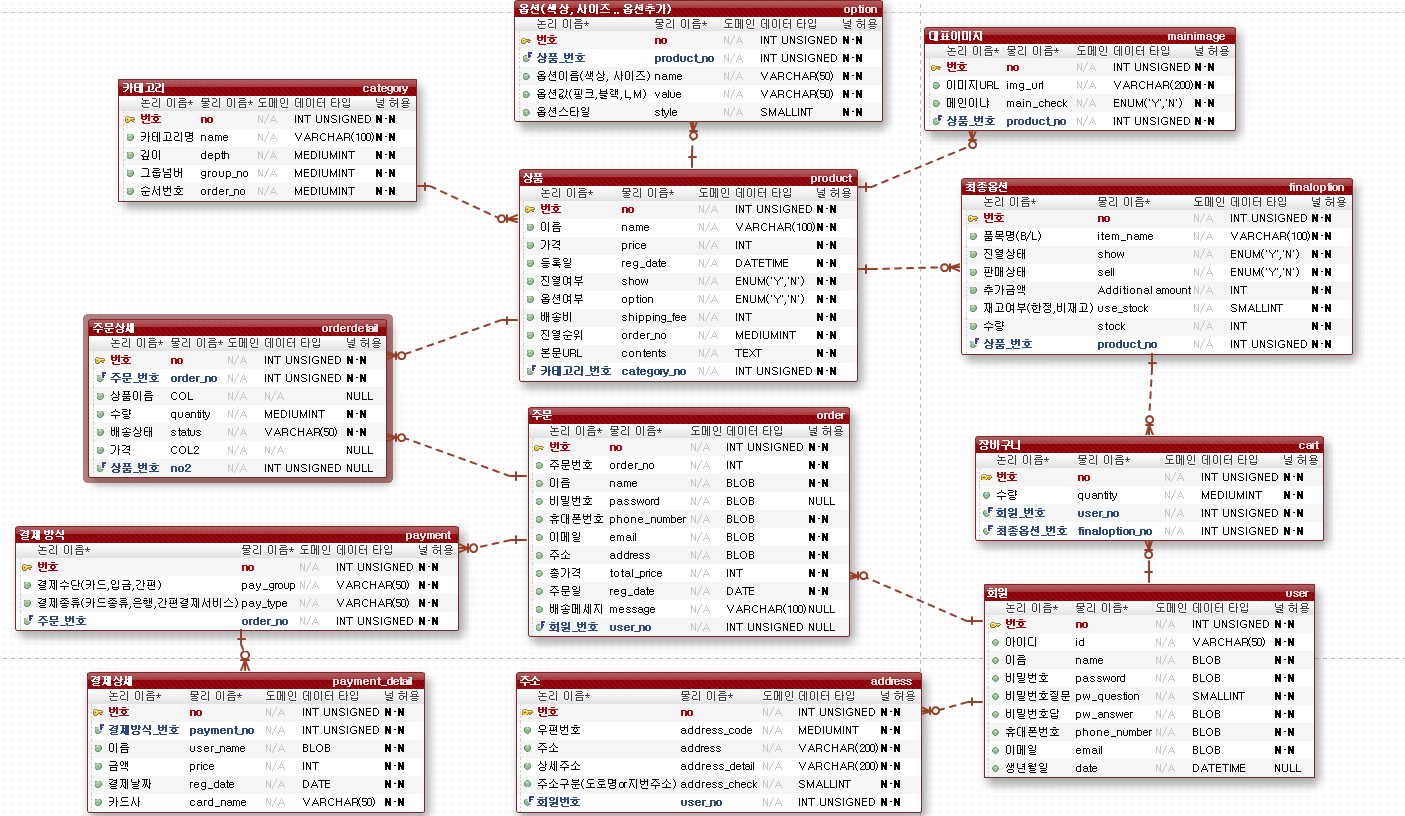
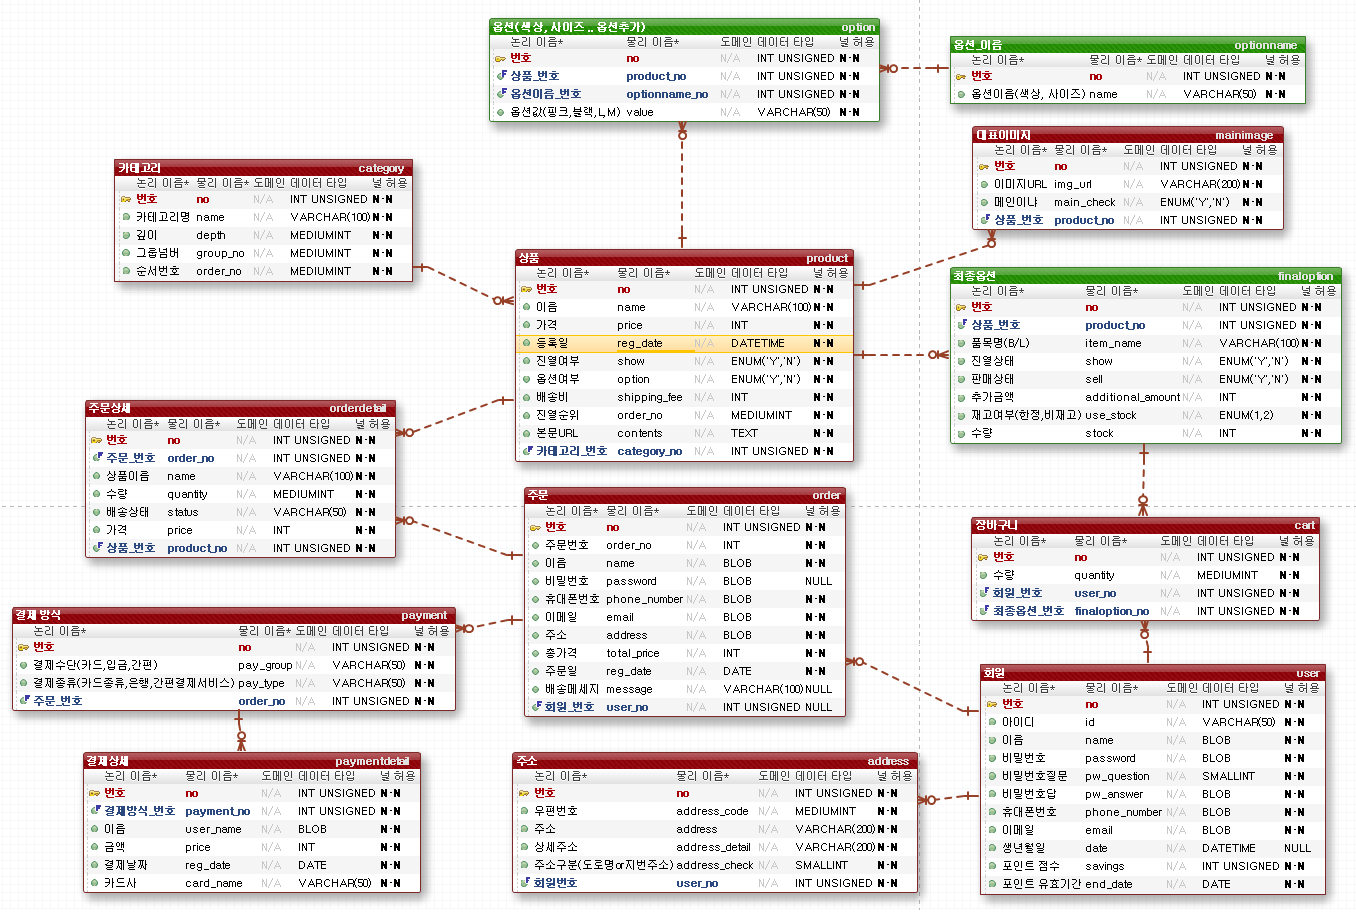
Add DB Schema's explanation

diff --git a/3. DB Schema.md b/3. DB Schema.md
@@ -1,7 +1,5 @@
 [TOC]
 
----
-
 ![1562241839251](assets/1562241839251.png)
 
 ---
@@ -40,8 +38,6 @@
 
 - 순서번호는 카테고리의 보여줄 순서를 지정하기 위해 넣었다. (default 1)
 
-
-
 **ex) 예시 데이터**
 
 | no   | name   | depth | group_no | order_no |
@@ -61,80 +57,183 @@
 
 ![1562239648428](assets/1562239648428.png)
 
-- 옵션은 두 개의 테이블로 나누었다.
+- 옵션은 3개의 테이블로 나누었다.
 
-- (원래는 3개의 테이블로 나눴었다. 하지만 많은 join을 최대한 줄이고자 2개로 줄여봤다. )
+  > 원래는 2개의 테이블로 나눴었다. 하지만 중복된 값들이 계속 들어가게 되어 4개로 늘렸다.
+  >
+  > (옷 쇼핑몰을 예로 들면 모든 상품은 `색상, 사이즈 ` 옵션을 갖기 마련인데, 데이터마다 계속  색상, 사이즈를 입력해주는 상황)
 
-- `<option>` 테이블에서는 해당 상품 번호의 옵션의 종류를 설정한다.
+- `optionname` 테이블
 
-- 1번상품에는 `색상 옵션`에 색상 `옵션의 값`은 검정, 분홍, 초록이 있고, `사이즈 옵션 `이 있으며 이의 `사이즈 옵션` 값은 L, M, S가 있다고 가정한다.
+  - 옵션의 이름만 저장하는 테이블 
 
-  그렇다면 총 옵션의 종류는 9가지가 된다. (검정/L, 검정/M, 검정/S, 분홍/L, 분홍/M, 분홍/S, 초록/L, 초록/M, 초록/S)
+    **ex) 예시 데이터**
 
-  이 경우 1번 상품의 개수는 9개가 되는 셈이다.  하지만, 여기서 검정색은 M사이즈가 없고 초록색은 S사이즈가 없다고 가정한다면,  (검정/L, 검정/S, 분홍/L, 분홍/M, 분홍/S, 초록/L, 초록/M) 상품의 수는 7개가 된다. (이는 클라이언트 측에서 옵션의 설정으로 추가/삭제 할 수 있도록 구현해보자..!)
+    | no   | name   |
+    | ---- | ------ |
+    | 1    | 색상   |
+    | 2    | 사이즈 |
 
-  이렇게 설정된 옵션의 값의 데이터들을 `최종옵션` 테이블에 넣어줄 것이다.
+    > 사용자가 옵션을 추가할 때, 이 테이블에 있는 값이면 그 옵션 이름의 번호를 사용하고,
+    >
+    > 테이블에 들어있지 않은 데이터 `모양`이라는 옵션을 새로 추가하는 옵션일 경우 아래와 같이 추가된다.
+    >
+    > | no   | name   |
+    > | ---- | ------ |
+    > | 1    | 색상   |
+    > | 2    | 사이즈 |
+    > | 3    | 모양   |
 
-**ex) 예시 데이터** 
+- `option` 테이블
 
-**(1) option table**
+  - 옵션 테이블에서는 해당 상품 번호와 옵션이름_번호를 저장한다.
 
-- 옵션 `style` 컬럼은 해당 옵션의  클라이언트 쪽 스타일을 지정해 줄 것이다. (드롭다운, 체크박스 ... 등 옵션을 선택할 수 있는 스타일)
-- 스타일의 개수는 정해져 있으니 int로 받아 java code에서 enum을 활용해 처리할 것이다. (1-드롭다운, 2-체크박스 ..)
+    **ex) 예시 데이터**
 
-| no   | product_no | name   | value | style |
-| ---- | ---------- | ------ | ----- | ----- |
-| 1    | 1          | 색상   | 검정  | 1     |
-| 2    | 1          | 색상   | 분홍  | 1     |
-| 3    | 1          | 색상   | 초록  | 1     |
-| 4    | 1          | 사이즈 | L     | 1     |
-| 5    | 1          | 사이즈 | M     | 1     |
-| 6    | 1          | 사이즈 | S     | 1     |
-| 7    | 2          | 색상   | 검정  | 1     |
+    1번상품에 색상, 사이즈 옵션이 있고, 2번상품에 색상, 사이즈, 모양이 있는 경우.
 
-> 여기서 고민은 옵션의 중복되는 데이터 값이 너무 많다는 점이다. 
->
-> (테이블을 하나 더 만들어 join을 할지,, 이대로 갈지,, 고민,,,)
+    1번 상품의 색상 옵션에는 검정, 분홍, 초록이 있고, 1번 상품의 사이즈 옵션에는 L, M, S가 있고,
 
-**(2) option table**
+    2번 상품의 색상에는 파란, 초록이 있고, 모양 옵션에는 별모양, 하트모양만 있는 경우
 
-최종 상품의 상세 정보
+    | no   | product_no | optionname_no | value |
+    | ---- | ---------- | ------------- | ----- |
+    | 1    | 1          | 1             | 검정  |
+    | 2    | 1          | 1             | 분홍  |
+    | 3    | 1          | 1             | 초록  |
+    | 4    | 1          | 2             | L     |
+    | 5    | 1          | 2             | M     |
+    | 6    | 1          | 2             | S     |
+    | 7    | 2          | 1             | 파란  |
+    | 8    | 2          | 1             | 초록  |
+    | 9    | 2          | 3             | 별    |
+    | 10   | 2          | 3             | 하트  |
 
-`show`: 상품 옵션을 보여줄 지 여부(일시품절)
+- `finaloption` 테이블
 
-`sell` : 해당 옵션의 상품을 판매하는 지 여부(품절)
+  - 재고 여부 (한정재고, 비재고)의 구분은 `ENUM(1,2)`타입으로 1일경우 한정, 2일경우 비재고를 Java enum을 활용
 
-`user_stock`의 경우 한정재고인지 비재고인지의 여부를 결정한다. (Java에서 Enum을 활용해 1-한정재고, 2-비재고의 구분을 생각했다.)
+  - 1번상품의 `색상 옵션`에 색상 `옵션의 값`은 검정, 분홍, 초록이 있고, `사이즈 옵션 `의 사이즈 옵션 값은 L, M, S가 있다고 가정한다.
 
-| no   | item_name | show | sell | additional amount | user_stock | stock | product_no |
-| ---- | --------- | ---- | ---- | ----------------- | ---------- | ----- | ---------- |
-| 1    | 검정/L    | Y    | Y    | 100               | 1          | 100   | 1          |
-| 2    | 검정/S    | Y    | Y    | 0                 | 1          | 100   | 1          |
-| 3    | 분홍/L    | Y    | Y    | 100               | 1          | 100   | 1          |
-| 4    | 분홍/M    | Y    | Y    | 0                 | 1          | 100   | 1          |
-| 5    | 분홍/S    | Y    | Y    | 0                 | 1          | 100   | 1          |
-| 6    | 초록/L    | Y    | Y    | 100               | 1          | 100   | 1          |
-| 7    | 초록/M    | Y    | Y    | 0                 | 1          | 100   | 1          |
+    그렇다면 총 옵션의 종류는 9가지가 된다.
 
-> 1번 상품의 옵션들 -> 이 테이블의 데이터들이 실질적으로 장바구니와 주문정보에 들어가게 된다.
+    **[검정/L, 검정/M, 검정/S, 분홍/L, 분홍/M, 분홍/S, 초록/L, 초록/M, 초록/S]** 
+
+    이 경우 1번 상품의 개수는 9개가 되는 셈이다.  
+
+    하지만, 여기서 검정색은 M사이즈가 없고 초록색은 S사이즈가 없다고 가정한다면,  
+
+    **[검정/L, 검정/S, 분홍/L, 분홍/M, 분홍/S, 초록/L, 초록/M]** 상품의 수는 7개가 된다. (클라이언트 측에서 옵션의 설정으로 추가/삭제)
+
+    이렇게 최종으로 설정된 옵션의 값의 데이터들을 `finaloption` 테이블에 넣어줄 것이다.
+
+    **ex) 예시 데이터** 
+
+    | no   | product_no | item_name | show | sell | additional_amount | use_stock | stock |
+    | ---- | ---------- | --------- | ---- | ---- | ----------------- | --------- | ----- |
+    | 1    | 1          | 검정/L    | Y    | Y    | 100               | 1         | 100   |
+    | 2    | 1          | 검정/S    | Y    | Y    | 0                 | 1         | 100   |
+    | 3    | 1          | 분홍/L    | Y    | Y    | 100               | 1         | 100   |
+    | 4    | 1          | 분홍/M    | Y    | Y    | 0                 | 1         | 100   |
+    | 5    | 1          | 분홍/S    | Y    | Y    | 0                 | 1         | 100   |
+    | 6    | 1          | 초록/L    | Y    | Y    | 100               | 1         | 100   |
+    | 7    | 1          | 초록/M    | Y    | Y    | 0                 | 1         | 100   |
 
 <br>
 
+# [4] 주문(order)
 
+![1562314574262](assets/1562314574262.png)
 
+- 비회원 주문일 경우 회원의 정보를 입력으로 받고, 회원일 경우 `user` 테이블에서 데이터를 가져와 넣어준다.
+- 회원일 경우는 비밀번호가 필요없으며, 비회원일 경우 주문조회를 할 때 비밀번호를 입력받는다.
+- 회원일 경우 회원 번호를 넣어주고, 비회원일 경우 넣어주지 않는다.
+- 총 가격은 `product` 테이블의 가격과 `finaloption`의 추가 금액을 더한 가격이다.
 
+<br>
 
+# [4] 주문상세(orderdetail)
 
+![1562314845265](assets/1562314845265.png)
 
+- 주문 상세의 경우 모든 상품을 가지고 있는 `order`테이블의 상세정보이다.
 
+- 만약 한사람이 1, 2, 3 번 상품 3개를 구매했다면, 그 각각의 정보가 있는 테이블이다.
 
+- 배송상태는 각각의 상품에 대한 배송 상태를 나타낸다.
 
+  **ex) 예시 데이터**
 
+  1번 주문에 대한 3가지 물품 데이터
 
+  상품의 상세 데이터는 `product_no`으로 `product` 테이블과 join해서 가져온다.
 
+  | no   | order_no | name   | quantity | status | price | product_no |
+  | ---- | -------- | ------ | -------- | ------ | ----- | ---------- |
+  | 1    | 1        | 반팔티 | 1        | 배송중 | 8000  | 1          |
+  | 2    | 1        | 반바지 | 1        | 배송중 | 9000  | 2          |
+  | 3    | 1        | 치마   | 1        | 배송중 | 8500  | 3          |
 
+<br>
 
+# [5] 회원(user)
 
+![1562322055952](assets/1562322055952.png)
 
+- 회원 테이블의 회원 개인 정보와 관련된 컬럼은 암호화를 할 예정이다.
+- 생년월일은 선택사항이다.
+- 비밀번호 질문의 경우 java enum을 활용해 받을 예정이다.
 
+<br>
+
+# [6] 장바구니(cart)
+
+![1562322135170](assets/1562322135170.png)
+
+- 장바구니는 `최종옵션_번호`에 해당하는 상품과 해당 상품의 수량을 저장할 수 있다.
+- 조회시(SELECT) `WHERE 회원_번호=1`과 같이 해당 회원의 장바구니에 담긴 모든 상품을 가져온다.
+- 상품 정보의 경우 `최종옵션_번호` 컬럼으로 `finaloption` 테이블과 join해서 가져온다.
+
+<br>
+
+# [7] 결제방식(payment) & 결제상세(paymentdetail)
+
+![1562322289682](assets/1562322289682.png)
+
+- **결제 방식(payment) 예시 데이터**
+
+  pay_group 예시 : 현금, 카드, 기타
+
+  pay_type : 
+
+  				- 현금 : 계좌이체, 무통장입금, 토스, ...
+  				- 카드 : 페이코, 신용카드, 카카오페이, ...
+  				- 기타 : 포인트, 쿠폰, ...
+
+  | no   | pay_group | pay_type   | order_no |
+  | ---- | --------- | ---------- | -------- |
+  | 1    | 카드      | 신용카드   | 1        |
+  | 2    | 카드      | 페이코     | 2        |
+  | 3    | 현금      | 무통장입금 | 3        |
+  | 4    | 현금      | 계좌이체   | 4        |
+  | 5    | 기타      | 쿠폰       | 5        |
+  | 6    | 기타      | 포인트     | 6        |
+
+- **결제 상세(paymentdetail)** 테이블의 경우 해당 `pay_type`의 상세 정보를 입력한다.
+
+<br>
+
+# [8] 주소(address)
+
+![1562322589910](assets/1562322589910.png)
+
+- 주소의 경우 회원이 주문시 입력한 주소를 저장한다. (비회원 해당 X)
+
+- 주소(address)테이블에 주소 데이터를 저장하는 이유 : 회원이 주문을 할 때 주소 자동 입력 기능을 위해
+
+- 비회원의 경우 바로 `주문(order)` 테이블로 데이터가 들어가며, 회원일 경우 `주소(address)`에 저장을 하고 `주문(order)` 테이블로 들어가게 된다.
+
+- 주소와 주문테이블은 서로 관계가 없다. (주문 완료 후 주소테이블 데이터를 변경한다고 가정했을 때 주문 테이블의 주소 데이터가 변경되면 안되기 때문)
+
+  
 

diff --git a/etc/etc.md b/etc/etc.md
@@ -1,0 +1,11 @@
+우편번호 DB ->  고시파일 받아야함 (사용자에게 보여줘야 할) - 쇼핑몰 서비스와 별개
+
+zip code 우편번호
+
+지번 - ㅇㅇ동
+
+상세주소 - ㅇㅇㅇ
+
+위에거 3개를 주문테이블에서 합쳐서 그냥 주소(우편번호/지번/상세주소/) 이렇게 하나로 저장해도 되겠지?
+
+> 주소는 첫번째 주문 할 때 받음!@!@!@!@
